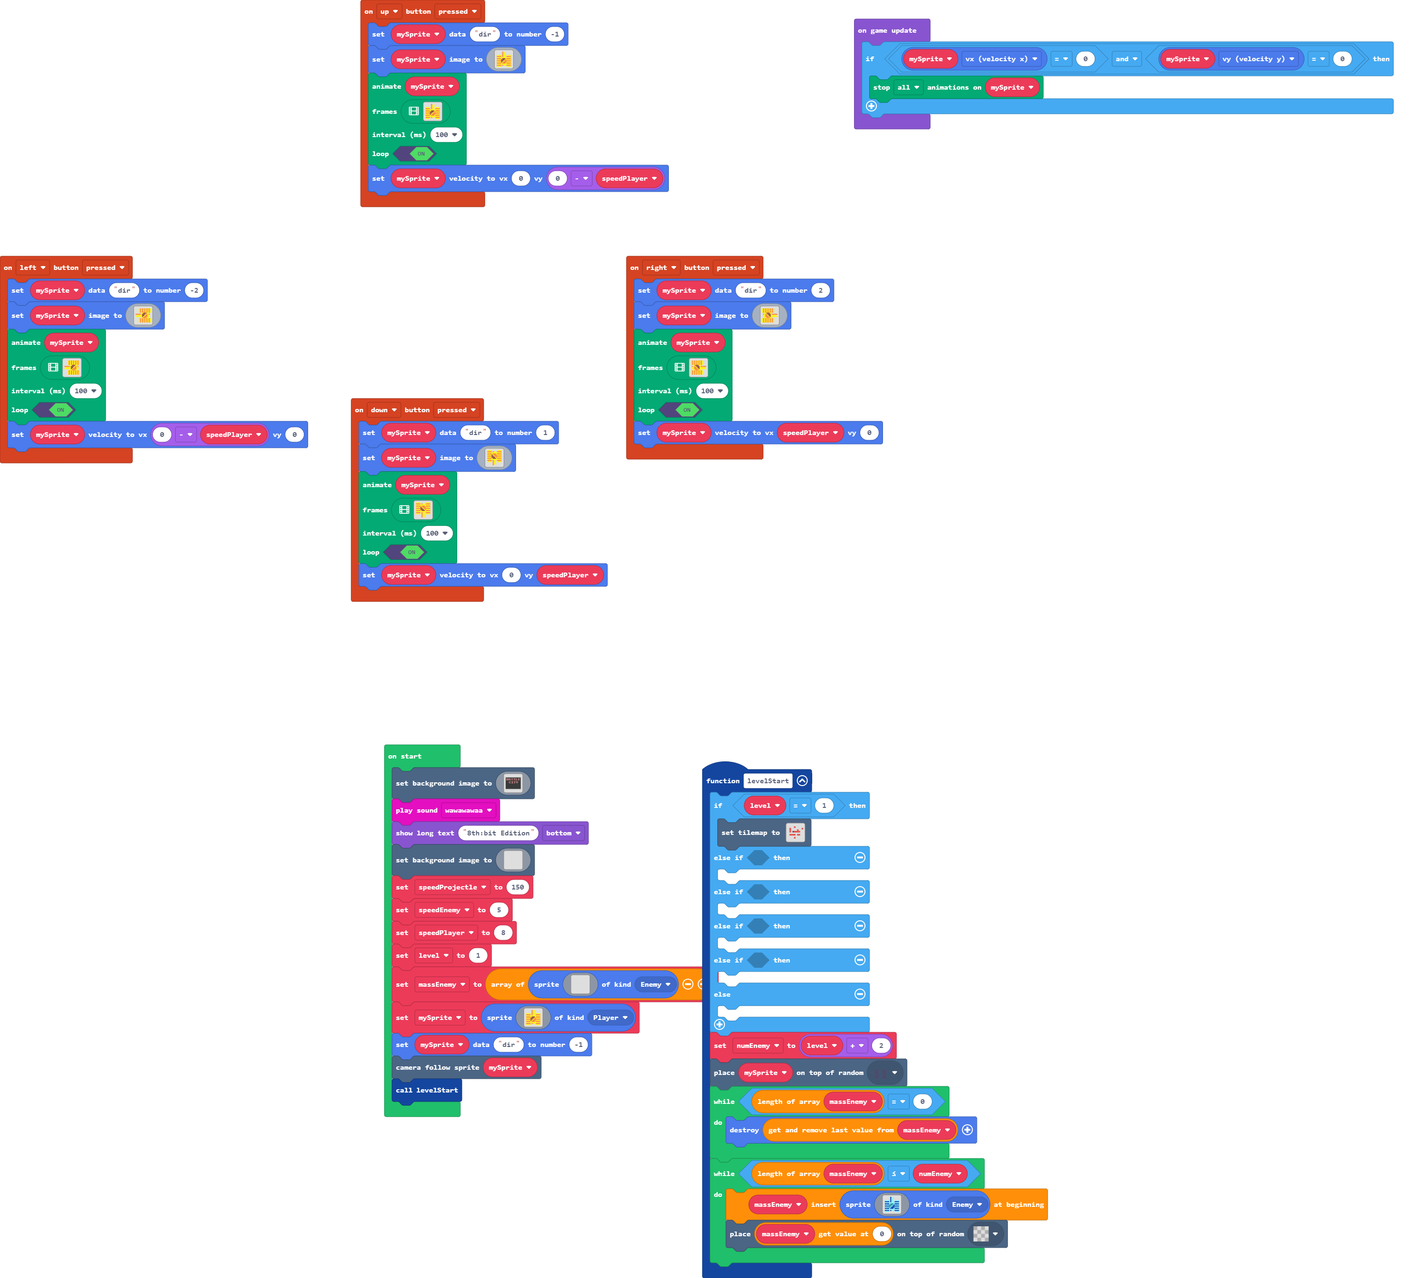
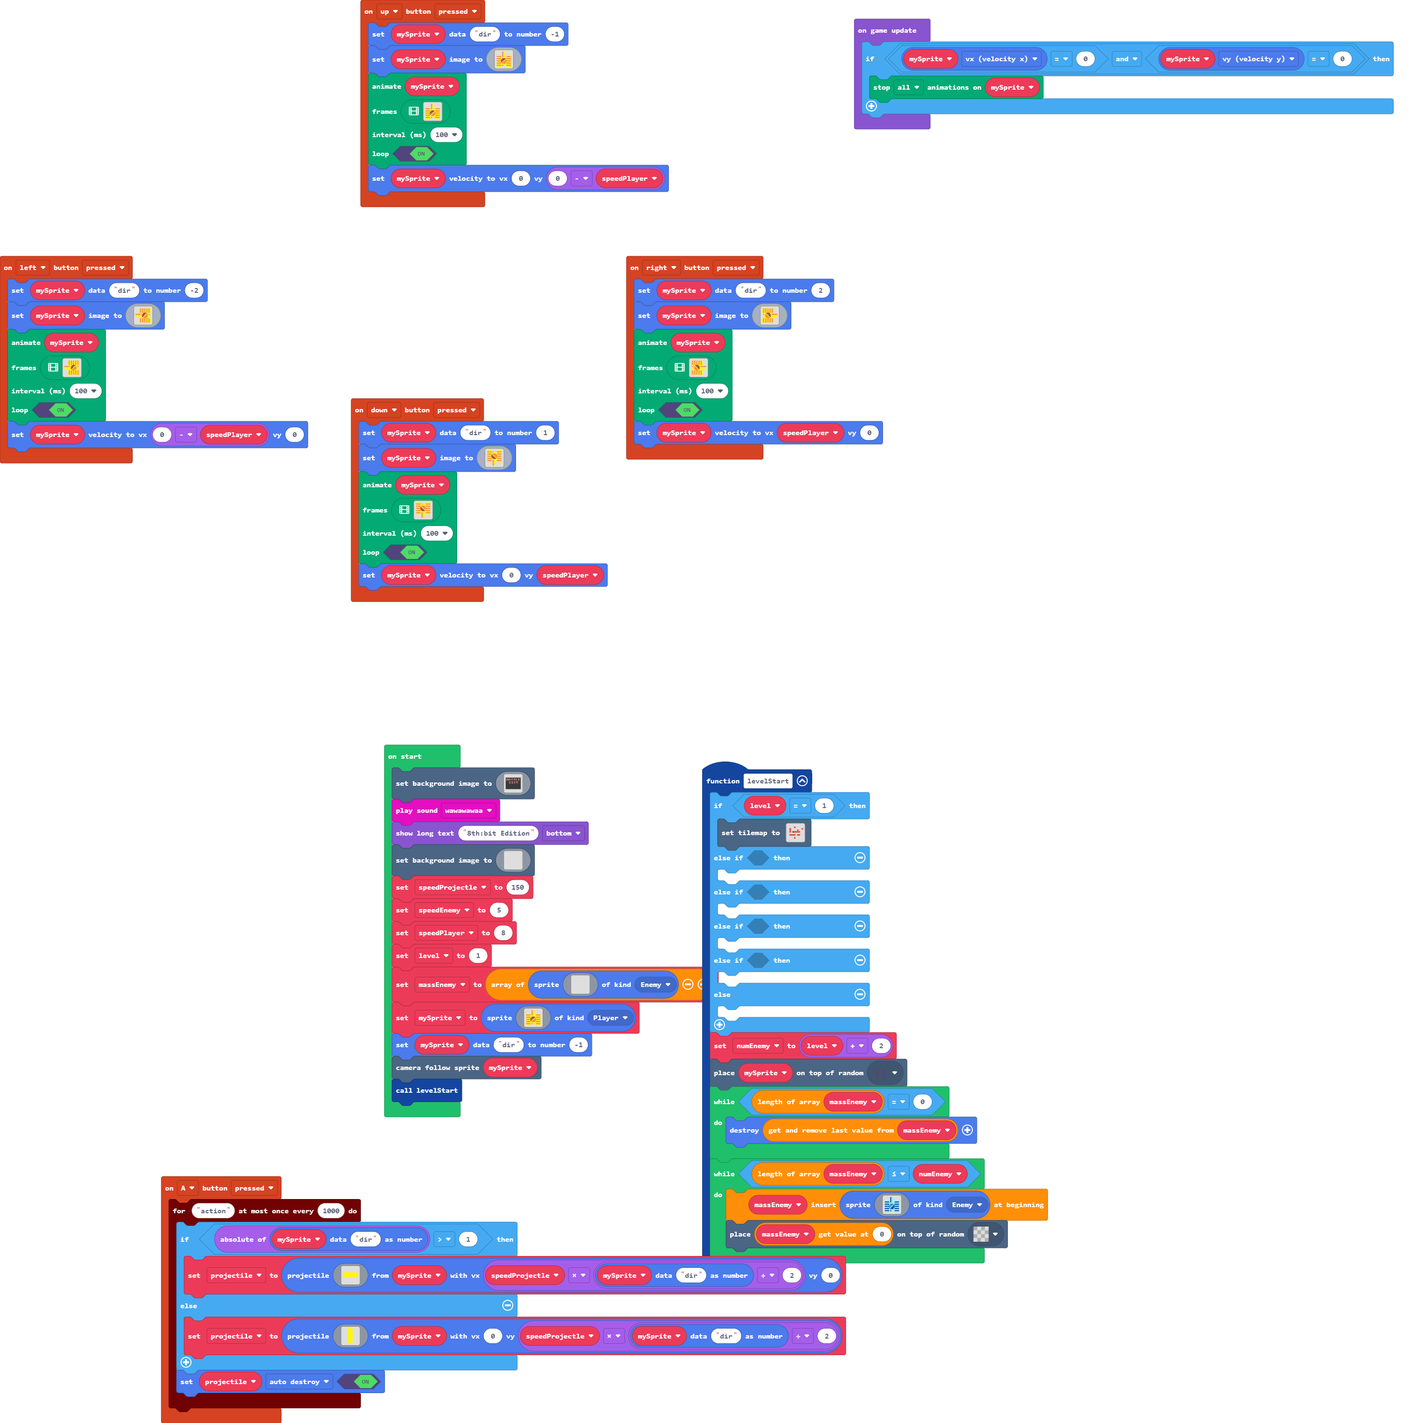
Update main.blocks, main.ts, images.g.jres, images.g.ts

diff --git a/images.g.ts b/images.g.ts
@@ -378,160 +378,12 @@ ffffffffffffffffffffffffffffffffffffffffffffffffffffffffffffffffffffffffffffffff
 9 9 9 9 . . . . . 9 9 9 9 
 `;
             case "image10":return img`
-. . . . . . . . . . . . . . . . 
-. . . . . . . . . . . . . . . . 
-. . . . . . . . . . . . . . . . 
-. . . . . . . . . . . . . . . . 
-. . . . . . . . . . . . . . . . 
-. . . . . . . . . . . . . . . . 
-. . . . . . . . . . . . . . . . 
-. . . . . . . . . . . . . . . . 
-. . . . . . . . . . . . . . . . 
-. . . . . . . . . . . . . . . . 
-. . . . . . . . . . . . . . . . 
-. . . . . . . . . . . . . . . . 
-. . . . . . . . . . . . . . . . 
-. . . . . . . . . . . . . . . . 
-. . . . . . . . . . . . . . . . 
-. . . . . . . . . . . . . . . . 
+5 5 5 
 `;
             case "image11":return img`
-................................................................................................................................................................
-................................................................................................................................................................
-................................................................................................................................................................
-................................................................................................................................................................
-................................................................................................................................................................
-................................................................................................................................................................
-................................................................................................................................................................
-................................................................................................................................................................
-................................................................................................................................................................
-................................................................................................................................................................
-................................................................................................................................................................
-................................................................................................................................................................
-................................................................................................................................................................
-................................................................................................................................................................
-................................................................................................................................................................
-................................................................................................................................................................
-................................................................................................................................................................
-................................................................................................................................................................
-................................................................................................................................................................
-................................................................................................................................................................
-................................................................................................................................................................
-................................................................................................................................................................
-................................................................................................................................................................
-................................................................................................................................................................
-................................................................................................................................................................
-................................................................................................................................................................
-................................................................................................................................................................
-................................................................................................................................................................
-................................................................................................................................................................
-................................................................................................................................................................
-................................................................................................................................................................
-................................................................................................................................................................
-................................................................................................................................................................
-................................................................................................................................................................
-................................................................................................................................................................
-................................................................................................................................................................
-................................................................................................................................................................
-................................................................................................................................................................
-................................................................................................................................................................
-................................................................................................................................................................
-................................................................................................................................................................
-................................................................................................................................................................
-................................................................................................................................................................
-................................................................................................................................................................
-................................................................................................................................................................
-................................................................................................................................................................
-................................................................................................................................................................
-................................................................................................................................................................
-................................................................................................................................................................
-................................................................................................................................................................
-................................................................................................................................................................
-................................................................................................................................................................
-................................................................................................................................................................
-................................................................................................................................................................
-................................................................................................................................................................
-................................................................................................................................................................
-................................................................................................................................................................
-................................................................................................................................................................
-................................................................................................................................................................
-................................................................................................................................................................
-................................................................................................................................................................
-................................................................................................................................................................
-................................................................................................................................................................
-................................................................................................................................................................
-................................................................................................................................................................
-................................................................................................................................................................
-................................................................................................................................................................
-................................................................................................................................................................
-................................................................................................................................................................
-................................................................................................................................................................
-................................................................................................................................................................
-................................................................................................................................................................
-................................................................................................................................................................
-................................................................................................................................................................
-................................................................................................................................................................
-................................................................................................................................................................
-................................................................................................................................................................
-................................................................................................................................................................
-................................................................................................................................................................
-................................................................................................................................................................
-................................................................................................................................................................
-................................................................................................................................................................
-................................................................................................................................................................
-................................................................................................................................................................
-................................................................................................................................................................
-................................................................................................................................................................
-................................................................................................................................................................
-................................................................................................................................................................
-................................................................................................................................................................
-................................................................................................................................................................
-................................................................................................................................................................
-................................................................................................................................................................
-................................................................................................................................................................
-................................................................................................................................................................
-................................................................................................................................................................
-................................................................................................................................................................
-................................................................................................................................................................
-................................................................................................................................................................
-................................................................................................................................................................
-................................................................................................................................................................
-................................................................................................................................................................
-................................................................................................................................................................
-................................................................................................................................................................
-................................................................................................................................................................
-................................................................................................................................................................
-................................................................................................................................................................
-................................................................................................................................................................
-................................................................................................................................................................
-................................................................................................................................................................
-................................................................................................................................................................
-................................................................................................................................................................
-................................................................................................................................................................
-................................................................................................................................................................
-................................................................................................................................................................
-................................................................................................................................................................
-................................................................................................................................................................
-................................................................................................................................................................
-................................................................................................................................................................
-................................................................................................................................................................
-................................................................................................................................................................
-`;
-            case "image12":return img`
-. . . . . 4 . 5 . . . . . 
-. . . . . 4 5 5 . . . . . 
-. . . . . 4 5 5 . . . . . 
-5 5 5 5 . 4 5 5 . 5 5 5 5 
-4 4 4 4 . 4 5 5 . 4 4 4 4 
-5 5 5 5 5 5 5 5 5 5 5 5 5 
-4 4 4 4 5 e e e 5 4 4 4 4 
-5 5 5 5 e e e 5 4 5 5 5 5 
-4 4 4 4 e e 5 4 4 4 4 4 4 
-5 5 5 5 e 5 4 4 4 5 5 5 5 
-4 4 4 4 5 4 4 4 5 4 4 4 4 
-5 5 5 5 5 5 5 5 5 5 5 5 5 
-4 4 4 4 . 4 5 5 . 4 4 4 4 
-5 5 5 5 . . . . . 5 5 5 5 
+5 
+5 
+5 
 `;
         }
         return null;

diff --git a/main.ts b/main.ts
@@ -93,6 +93,22 @@ controller.up.onEvent(ControllerButtonEvent.Pressed, function () {
     )
     mySprite.setVelocity(0, 0 - speedPlayer)
 })
+controller.A.onEvent(ControllerButtonEvent.Pressed, function () {
+    timer.throttle("action", 1000, function () {
+        if (Math.abs(sprites.readDataNumber(mySprite, "dir")) > 1) {
+            projectile = sprites.createProjectileFromSprite(img`
+                5 5 5 
+                `, mySprite, speedProjectle * (sprites.readDataNumber(mySprite, "dir") / 2), 0)
+        } else {
+            projectile = sprites.createProjectileFromSprite(img`
+                5 
+                5 
+                5 
+                `, mySprite, 0, speedProjectle * (sprites.readDataNumber(mySprite, "dir") / 2))
+        }
+        projectile.setFlag(SpriteFlag.AutoDestroy, true)
+    })
+})
 controller.left.onEvent(ControllerButtonEvent.Pressed, function () {
     sprites.setDataNumber(mySprite, "dir", -2)
     mySprite.setImage(img`
@@ -255,11 +271,13 @@ controller.down.onEvent(ControllerButtonEvent.Pressed, function () {
     )
     mySprite.setVelocity(0, speedPlayer)
 })
+let projectile: Sprite = null
 let numEnemy = 0
 let mySprite: Sprite = null
 let massEnemy: Sprite[] = []
 let level = 0
 let speedPlayer = 0
+let speedProjectle = 0
 scene.setBackgroundImage(img`
     ffffffffffffffffffffffffffffffffffffffffffffffffffffffffffffffffffffffffffffffffffffffffffffffffffffffffffffffffffffffffffffffffffffffffffffffffffffffffffffffff
     ffffffffffffffffffffffffffffffffffffffffffffffffffffffffffffffffffffffffffffffffffffffffffffffffffffffffffffffffffffffffffffffffffffffffffffffffffffffffffffffff
@@ -506,7 +524,7 @@ scene.setBackgroundImage(img`
     ................................................................................................................................................................
     ................................................................................................................................................................
     `)
-let speedProjectle = 150
+speedProjectle = 150
 let speedEnemy = 5
 speedPlayer = 8
 level = 1
